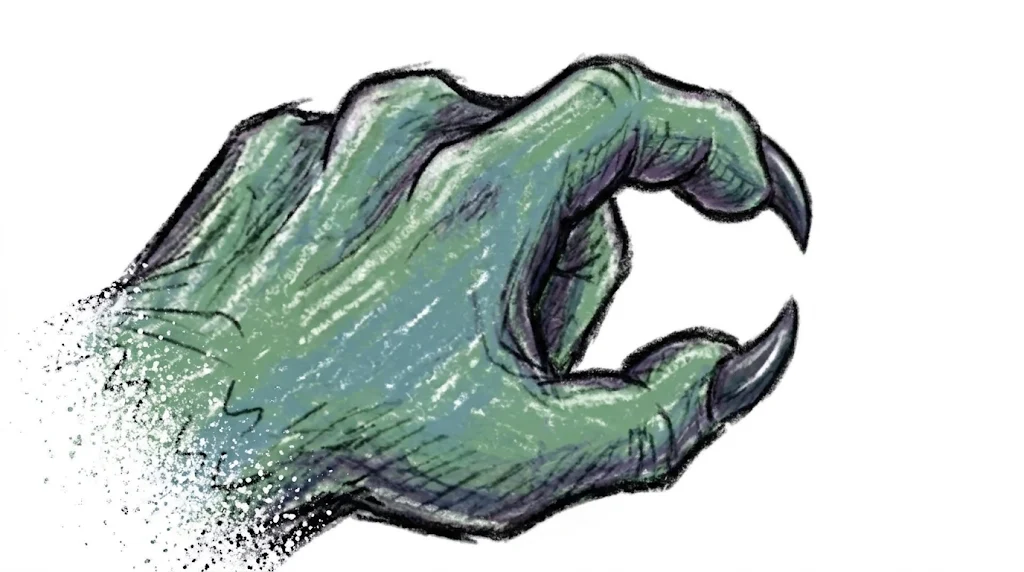
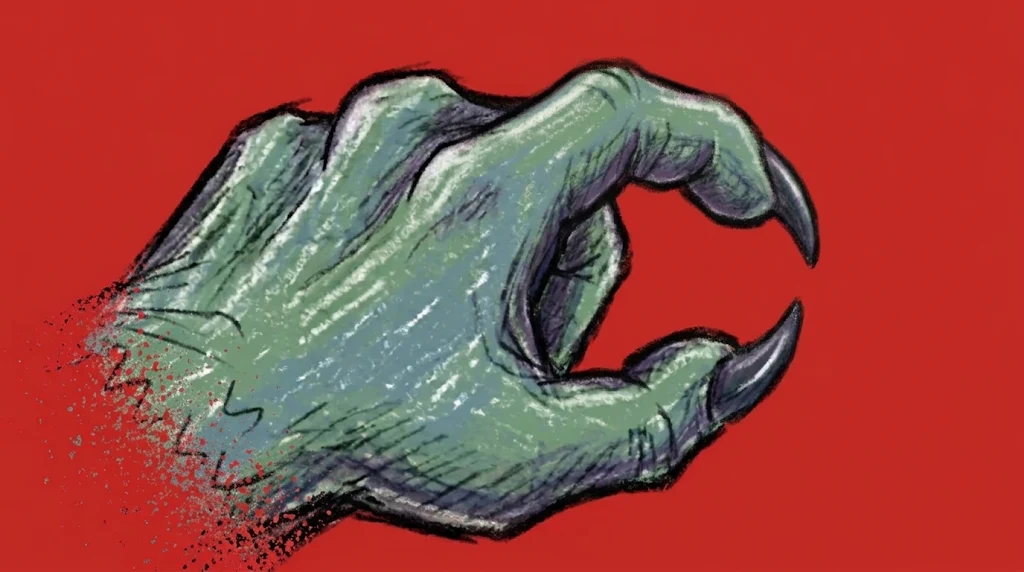
feat: key the tutorial hand off a red screen with a real pinch frame
The drag tutorial's hand frames are now redrawn on a red screen and keyed out by redness, with the red unmixed from soft edges and dust and despilled, so the dissolving wrist keeps only its colored specks and the claws' enclosed gap is clear. The pinch frame is a distinct drawing, the grab point sits where its claws meet, and the hand pinches as soon as it has faded in.

diff --git a/src/config.ts b/src/config.ts
@@ -611,10 +611,10 @@ export const SLICE_CUE = {
 export const DRAG_CUE = {
   idleSeconds: 3,
   handWidth: 380,
-  pivotX: 0.86,
-  pivotY: 0.42,
+  pivotX: 0.95,
+  pivotY: 0.43,
   fadeInSeconds: 0.3,
-  openSeconds: 0.4,
+  openSeconds: 0,
   pinchSeconds: 0.2,
   slideSeconds: 1.2,
   fadeOutSeconds: 0.4,

diff --git a/tools/art/extract.py b/tools/art/extract.py
@@ -115,13 +115,14 @@ TOPPING_FIT_ANGLES = np.arange(-15, 15.5, 1)  # degrees
 TOPPING_FIT_SCALES = np.arange(0.84, 1.161, 0.02)
 TOPPING_FIT_ROTATE_GAIN = 0.01  # overlap ratio a rotation must add to be used
 
-# Tutorial hand frames, drawn on white: cut onto one shared canvas (so they swap in place) of this width, sized in code.
-# The body is solid; outside it, ink is unmixed from the paper so its dust trail stays soft
+# Tutorial hand frames, drawn on a red screen: keyed out and cut onto one shared canvas (so they swap in place) of this
+# width, sized in code. Keying reads redness (red over the larger of green and blue) as a fraction of the screen's: at
+# or below solid it's opaque, at or above clear it's gone, and between, the red is unmixed out
 HAND_FRAMES = {'hand_open': 'pizza_hand_open.png', 'hand_pinch': 'pizza_hand_pinch.png'}
 HAND_WIDTH = 512
-HAND_INK_LUM = 235  # its light green would let the flood in, so anything short of paper blocks it
-HAND_SEAL = 2  # closes the gaps where the body breaks into dust, px
-HAND_DUST_MIN = 0.04  # fainter dust than this is dropped, as alpha
+HAND_KEY_SOLID = 0.2
+HAND_KEY_CLEAR = 0.75
+HAND_SPECK_MIN = 0.04  # fainter specks than this are dropped, as alpha
 
 
 def load(name):
@@ -574,15 +575,22 @@ def orient_fire(pixels):
     return np.ascontiguousarray(out)
 
 
+def redness(img):
+    return img[..., 0] - img[..., 1:].max(-1)
+
+
 def hand_frames():
-    """Cut the tutorial hand frames onto one canvas; returns their asset names."""
+    """Key the tutorial hand frames off their red screen onto one canvas; returns their asset names."""
     cut = {}
     for name, source in HAND_FRAMES.items():
         img = load(source)
-        paper = estimate_paper(img)
-        body = ndimage.binary_fill_holes(largest(foreground(img, paper, use_chroma=True, ink_lum=HAND_INK_LUM, seal=HAND_SEAL)))
-        dust = inkness(img, paper)
-        cut[name] = rgba(img, paper, np.where(body, 1.0, np.where(dust >= HAND_DUST_MIN, dust, 0.0)).astype(np.float32))
+        screen = np.median(np.concatenate([img[0], img[-1], img[:, 0], img[:, -1]]), axis=0)
+        k = redness(img) / redness(screen)
+        alpha = np.clip((HAND_KEY_CLEAR - k) / (HAND_KEY_CLEAR - HAND_KEY_SOLID), 0, 1)
+        pixels = rgba(img, screen, np.where(alpha >= HAND_SPECK_MIN, alpha, 0).astype(np.float32))
+        # Despill: the hand has no reds, so red left past green and blue is the screen's
+        pixels[..., 0] = np.minimum(pixels[..., 0], pixels[..., 1:3].max(-1))
+        cut[name] = pixels
     l, t, r, b = bbox(np.maximum.reduce([c[..., 3] for c in cut.values()]))
     size = (HAND_WIDTH, round((b - t) * HAND_WIDTH / (r - l)))
     for name, pixels in cut.items():
